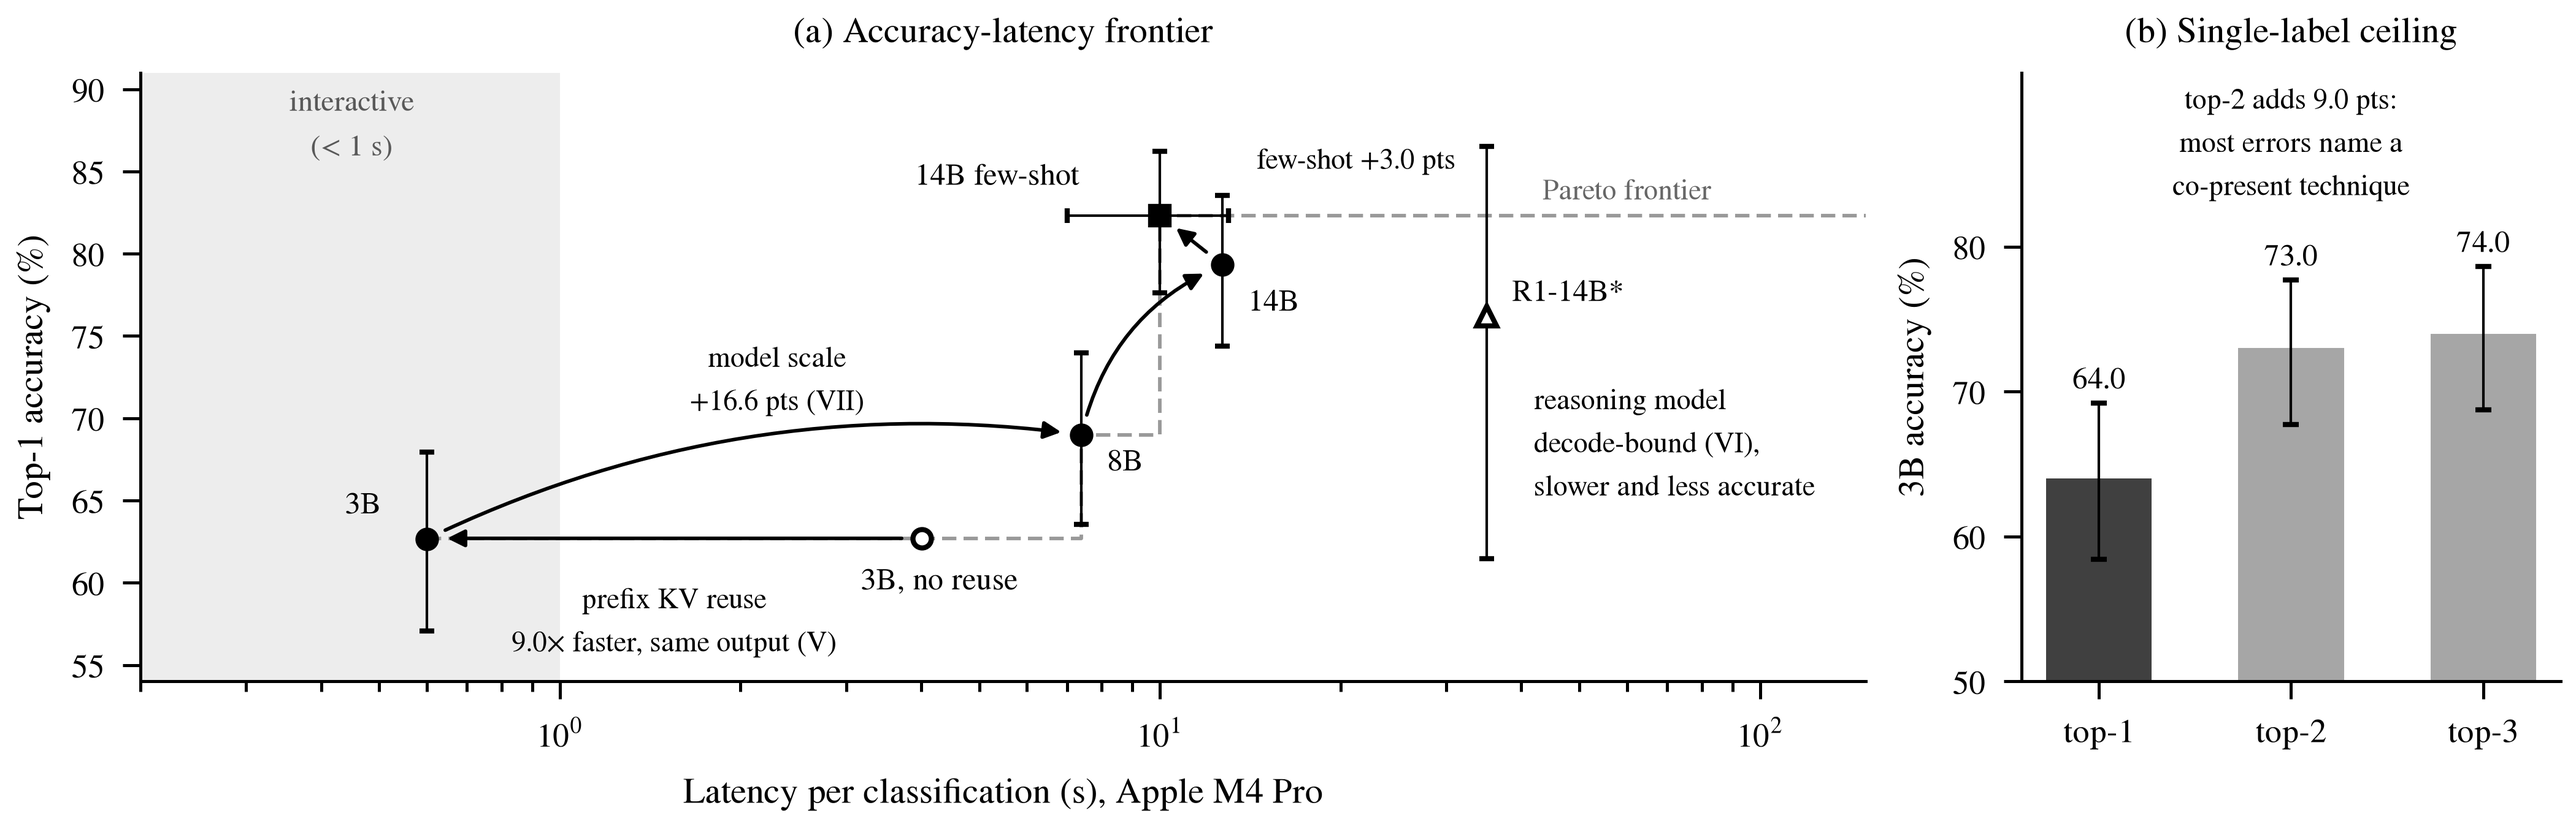
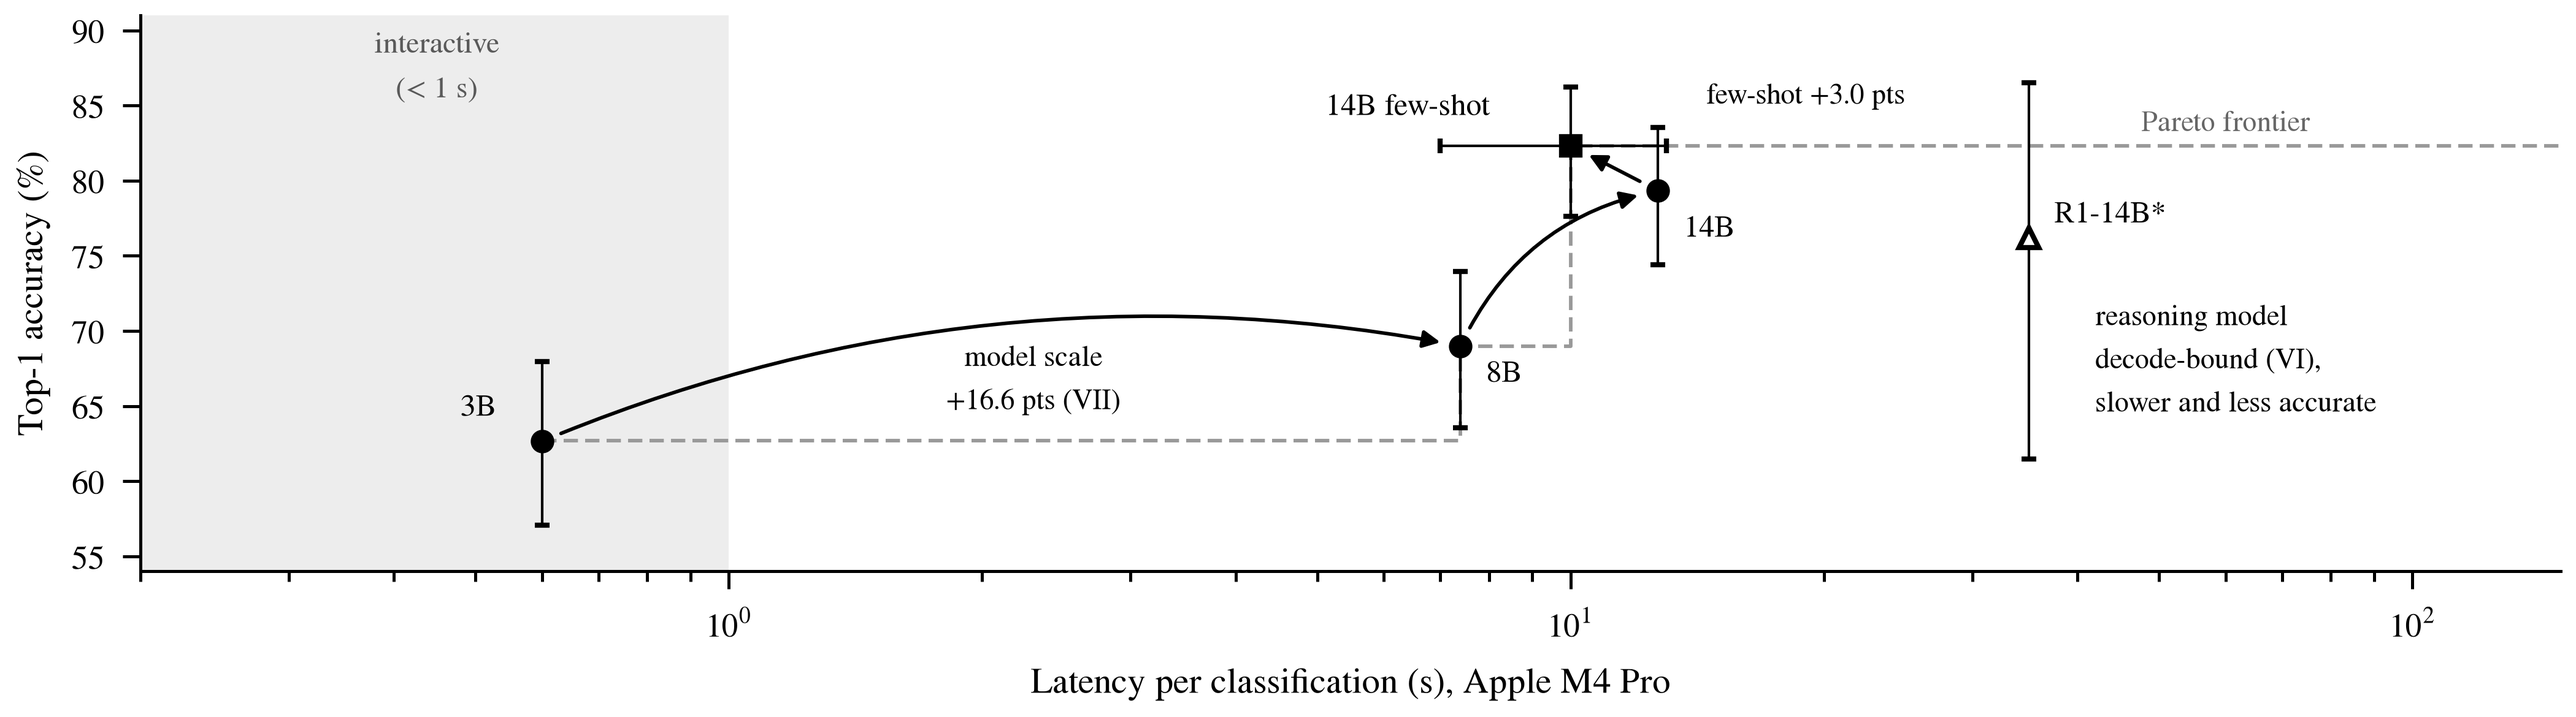
bench: static-prefix KV cache vs deployed vs naive scoring, decode ms/token (3B + 14B)

diff --git a/server/bench/prefix_cache_bench.py b/server/bench/prefix_cache_bench.py
@@ -1,0 +1,123 @@
+#!/usr/bin/env python3
+"""Technique-stage latency under three KV strategies + decode throughput.
+
+  naive    : one full forward per label (no reuse)
+  deployed : prefill the whole prompt once per input, score labels, trim back (server.py)
+  static   : the input-independent prompt prefix is prefilled ONCE across requests;
+             per input only the suffix (input text + template tail) and label tokens run
+
+Also checks the three give the same scores, and times greedy decode (ms/token).
+    .venv/bin/python bench/prefix_cache_bench.py --model mlx-community/Qwen2.5-14B-Instruct-4bit
+"""
+import argparse, json, statistics, sys, time
+from pathlib import Path
+
+sys.path.insert(0, str(Path(__file__).resolve().parents[1]))
+import mlx.core as mx
+from mlx_lm import load
+from mlx_lm.models.cache import make_prompt_cache, trim_prompt_cache
+import server as s
+from bench.latency_bench import SAMPLES
+
+
+def lse(x, axis=-1):
+    return x - mx.logsumexp(x, axis=axis, keepdims=True)
+
+
+def score_from(model, cache, last_logits, labels):
+    """Score every label continuing from the cache state; trim back after each."""
+    base = lse(last_logits)
+    out = []
+    for ids in labels:
+        tot = base[ids[0]]
+        if len(ids) > 1:
+            lg = lse(model(mx.array([ids[:-1]]), cache=cache)[0])
+            tot = tot + lg[mx.arange(len(ids) - 1), mx.array(ids[1:])].sum()
+            trim_prompt_cache(cache, len(ids) - 1)
+        out.append(tot / len(ids))
+    out = mx.stack(out); mx.eval(out)
+    return out
+
+
+def naive(model, prompt, labels):
+    out = []
+    for ids in labels:
+        lp = lse(model(mx.array([prompt + ids]))[0])
+        n = len(prompt)
+        out.append(sum(lp[n + j - 1, t] for j, t in enumerate(ids)) / len(ids))
+    out = mx.stack(out); mx.eval(out)
+    return out
+
+
+def deployed(model, prompt, labels):
+    cache = make_prompt_cache(model)
+    last = model(mx.array([prompt]), cache=cache)[0][-1]
+    return score_from(model, cache, last, labels)
+
+
+def static_step(model, cache, static_len, prompt, labels):
+    suffix = prompt[static_len:]
+    last = model(mx.array([suffix]), cache=cache)[0][-1]
+    sc = score_from(model, cache, last, labels)
+    trim_prompt_cache(cache, len(suffix))          # back to the shared prefix
+    return sc
+
+
+def timed(fn, reps):
+    ts = []
+    for _ in range(reps):
+        t0 = time.perf_counter(); r = fn(); ts.append(time.perf_counter() - t0)
+    return r, ts
+
+
+def main():
+    ap = argparse.ArgumentParser()
+    ap.add_argument("--model", default="mlx-community/Llama-3.2-3B-Instruct-4bit")
+    ap.add_argument("--naive", type=int, default=3, help="inputs to run the slow naive path on")
+    ap.add_argument("--decode", type=int, default=64)
+    a = ap.parse_args()
+
+    model, tok = load(a.model)
+    enc = lambda t, sp=True: tok.encode(t, add_special_tokens=sp)
+    labels = [enc(v, False) for v in s.VECTORS]
+    prompts = [enc(s._chat_prompt(tok, t, s.SYSTEM, s.TECHNIQUE_FEWSHOT)) for t in SAMPLES]
+    static_len = min(next(i for i, (x, y) in enumerate(zip(prompts[0], p)) if x != y) for p in prompts[1:])
+
+    deployed(model, prompts[0], labels)                         # warm-up
+    t_build = time.perf_counter()
+    cache = make_prompt_cache(model)
+    mx.eval(model(mx.array([prompts[0][:static_len]]), cache=cache))
+    t_build = time.perf_counter() - t_build
+
+    res = {"model": a.model, "prompt_tokens": len(prompts[0]), "static_tokens": static_len,
+           "labels": len(labels), "label_tokens": sum(map(len, labels)), "static_build_s": t_build,
+           "deployed_s": [], "static_s": [], "naive_s": [], "max_abs_diff": 0.0, "argmax_agree": 0}
+    for i, p in enumerate(prompts):
+        d, td = timed(lambda: deployed(model, p, labels), 1)
+        st, ts = timed(lambda: static_step(model, cache, static_len, p, labels), 1)
+        res["deployed_s"] += td; res["static_s"] += ts
+        diffs = [mx.abs(d - st).max().item()]
+        agree = int(mx.argmax(d).item() == mx.argmax(st).item())
+        if i < a.naive:
+            n, tn = timed(lambda: naive(model, p, labels), 1)
+            res["naive_s"] += tn
+            diffs.append(mx.abs(d - n).max().item())
+            agree &= int(mx.argmax(d).item() == mx.argmax(n).item())
+        res["max_abs_diff"] = max(res["max_abs_diff"], *diffs)
+        res["argmax_agree"] += agree
+
+    # greedy decode throughput after a short prompt
+    c2 = make_prompt_cache(model)
+    y = mx.argmax(model(mx.array([prompts[0][-32:]]), cache=c2)[0][-1]); mx.eval(y)
+    t0 = time.perf_counter()
+    for _ in range(a.decode):
+        y = mx.argmax(model(y.reshape(1, 1), cache=c2)[0][-1]); mx.eval(y)
+    res["decode_ms_per_tok"] = 1000 * (time.perf_counter() - t0) / a.decode
+
+    med = lambda xs: statistics.median(xs) if xs else None
+    res["median"] = {k: med(res[k + "_s"]) for k in ("naive", "deployed", "static")}
+    print(json.dumps(res))
+
+
+if __name__ == "__main__":
+    main()

diff --git a/docs/paper/make_figs.py b/docs/paper/make_figs.py
@@ -76,24 +76,20 @@ def hero(ax):
                     ms=3.6, color="k", capsize=1.4, elinewidth=0.5, zorder=3)
     p, lo, hi = wilson(32, 42)
     ax.errorbar(35, p, yerr=[[lo], [hi]], fmt="^", ms=3.8, color="k", mfc="w", capsize=1.4, elinewidth=0.5, zorder=3)
-    ax.plot(4.014, 62.7, "o", ms=3.6, color="k", mfc="w", zorder=3)
     # Pareto frontier
     fx = [0.6, 7.4, 7.4, 10.0, 10.0, 150]; fy = [62.7, 62.7, 69.0, 69.0, 82.3, 82.3]
     ax.plot(fx, fy, color="0.6", lw=0.7, ls=(0, (4, 2)), zorder=1)
     ax.text(60, 83.3, "Pareto frontier", fontsize=5.6, color="0.4", ha="center")
     arrow = dict(arrowstyle="-|>", lw=0.7, color="k", shrinkA=4, shrinkB=4)
-    ax.annotate("", (0.6, 62.7), (4.014, 62.7), arrowprops=arrow)
-    ax.text(1.55, 60.2, "prefix KV reuse\n9.0× faster, same output (V)", ha="center", va="top", fontsize=5.6)
     ax.annotate("", xy["8B"], xy["3B"], arrowprops={**arrow, "connectionstyle": "arc3,rad=-0.15"})
     ax.annotate("", xy["14B"], xy["8B"], arrowprops={**arrow, "connectionstyle": "arc3,rad=-0.25"})
-    ax.text(2.3, 70.5, "model scale\n+16.6 pts (VII)", ha="center", fontsize=5.6)
+    ax.text(2.3, 64.8, "model scale\n+16.6 pts (VII)", ha="center", fontsize=5.6)
     ax.annotate("", xy["14B few-shot"], xy["14B"], arrowprops=arrow)
     ax.text(14.5, 85.6, "few-shot +3.0 pts", fontsize=5.6, va="center")
     ax.text(42, 72.3, "reasoning model\ndecode-bound (VI),\nslower and less accurate", fontsize=5.6, va="top")
     for name, off in {"3B": (-16, 5), "8B": (5, -7), "14B": (5, -9), "14B few-shot": (-48, 6)}.items():
         ax.annotate(name, xy[name], textcoords="offset points", xytext=off, fontsize=6)
     ax.annotate("R1-14B*", (35, 76.2), textcoords="offset points", xytext=(5, 3), fontsize=6)
-    ax.annotate("3B, no reuse", (4.014, 62.7), textcoords="offset points", xytext=(-12, -10), fontsize=6)
     ax.set_xscale("log"); ax.set_xlim(0.2, 150); ax.set_ylim(54, 91)
     ax.set_xlabel("Latency per classification (s), Apple M4 Pro"); ax.set_ylabel("Top-1 accuracy (%)")
     for sp in ("top", "right"): ax.spines[sp].set_visible(False)
@@ -125,9 +121,7 @@ if __name__ == "__main__":
         fig, a = plt.subplots(figsize=size, constrained_layout=True)
         f(a); a.tick_params(labelsize=6.5)
         fig.savefig(f"fig_{name}.png", dpi=600); plt.close(fig)
-    fig, (a1, a2) = plt.subplots(1, 2, figsize=(7.0, 2.25), gridspec_kw={"width_ratios": [3.2, 1]}, constrained_layout=True)
-    hero(a1); topk(a2)
-    for a_, t in [(a1, "(a) Accuracy-latency frontier"), (a2, "(b) Single-label ceiling")]:
-        a_.set_title(t, fontsize=7); a_.tick_params(labelsize=6.5)
+    fig, a1 = plt.subplots(figsize=(7.0, 1.95), constrained_layout=True)
+    hero(a1); a1.tick_params(labelsize=6.5)
     fig.savefig("fig_hero.png", dpi=600); plt.close(fig)
     print("ok")
